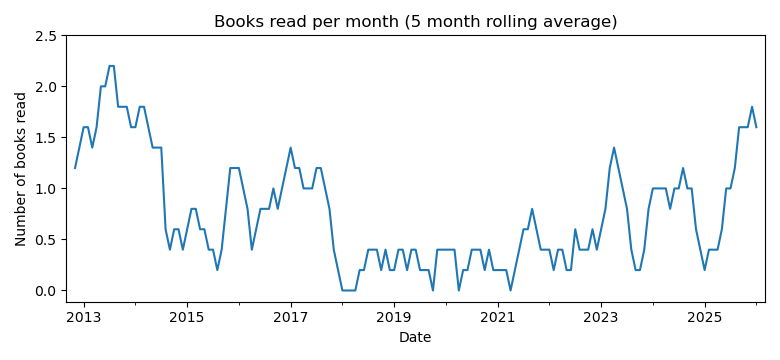
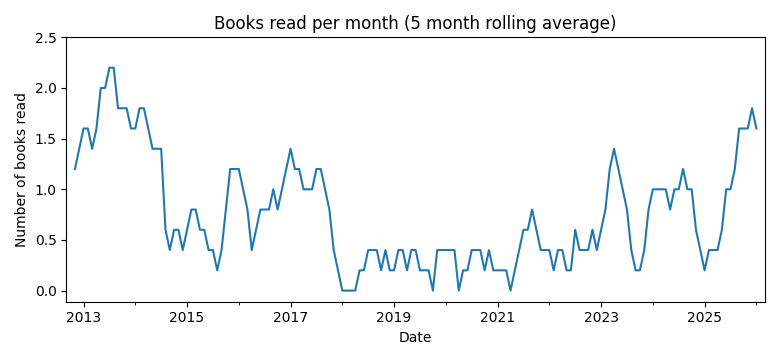
Update frequency strings

diff --git a/generate_Readme.py b/generate_Readme.py
@@ -60,7 +60,7 @@ df.date_read = pd.to_datetime(df.date_read, format="%Y.%m.%d")
 # We want to summarize by date - make the date the index
 df.index = df.date_read
 # summarize by year
-df2 = df.groupby(pd.Grouper(freq='A')).count()['title']
+df2 = df.groupby(pd.Grouper(freq='YE')).count()['title']
 
 df2.year = pd.Series(df2.index).apply(lambda x: x.year)
 df2.index = df2.year
@@ -77,14 +77,14 @@ fig.set_title('Books recorded')
 fig.get_figure().savefig('book_recorded.png')
 
 # summarize by month
-df3 = df.groupby(pd.Grouper(freq='M')).count()['title']
+df3 = df.groupby(pd.Grouper(freq='ME')).count()['title']
 
 # extend to current month to also include recent periods without activity
 start = max(df3.index)
 end = pd.Timestamp.today() + pd.tseries.offsets.MonthEnd()
 
 # update index including potentially empty months
-df3a = df3.reindex(df3.index.union(pd.date_range(start=start, end=end,freq="M"))).fillna(0)
+df3a = df3.reindex(df3.index.union(pd.date_range(start=start, end=end,freq="ME"))).fillna(0)
 
 # plot
 plt.figure(figsize=(780/my_dpi, 360/my_dpi), dpi=my_dpi)
